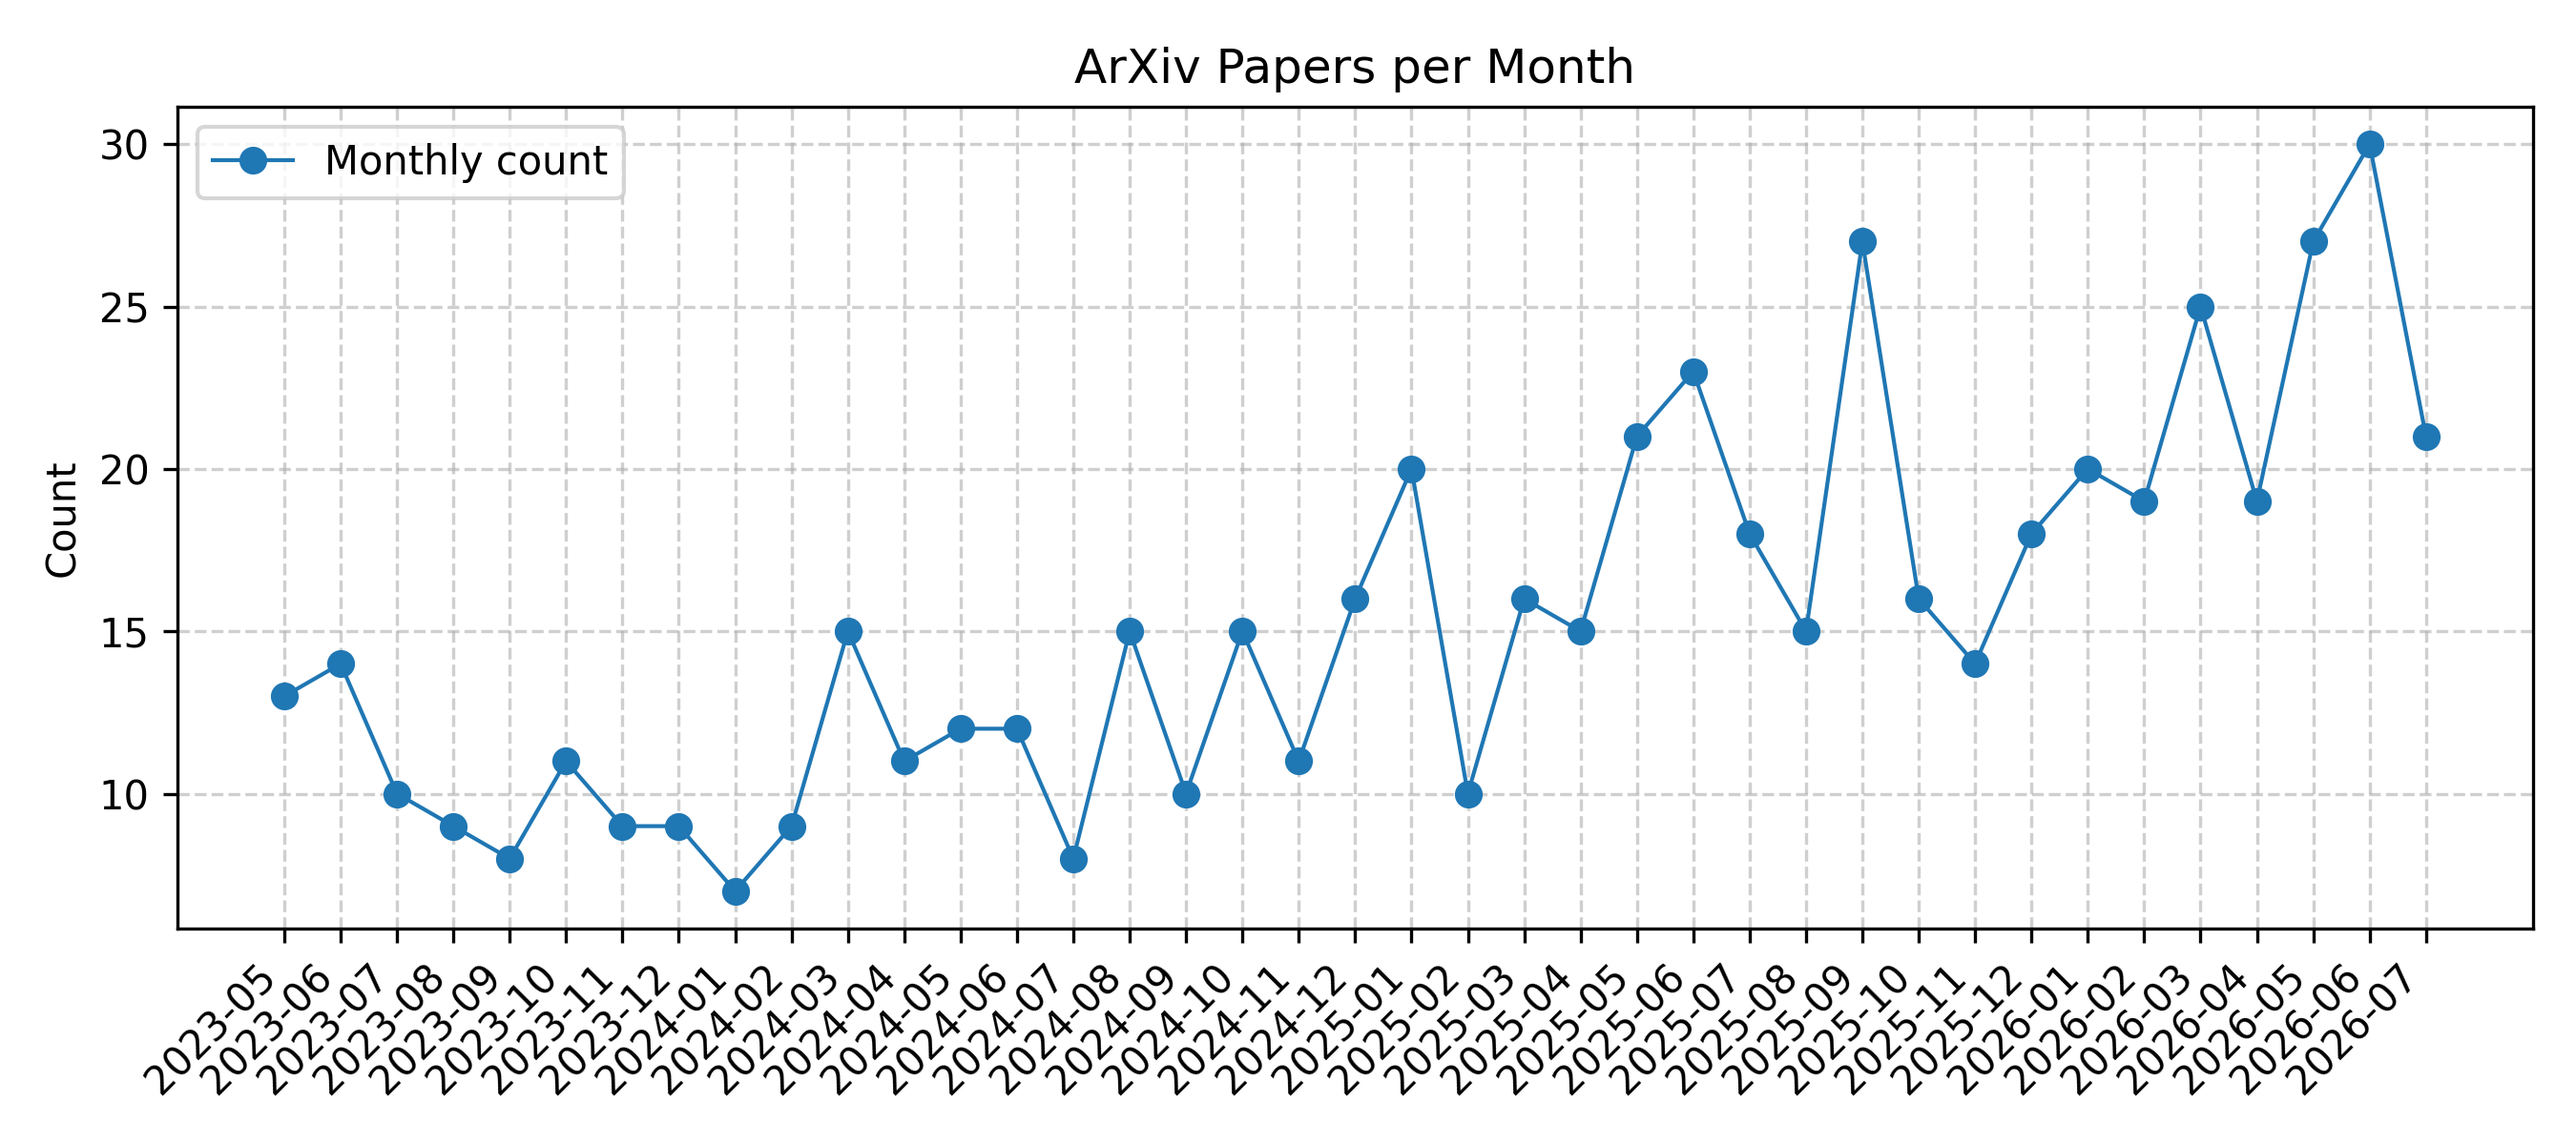
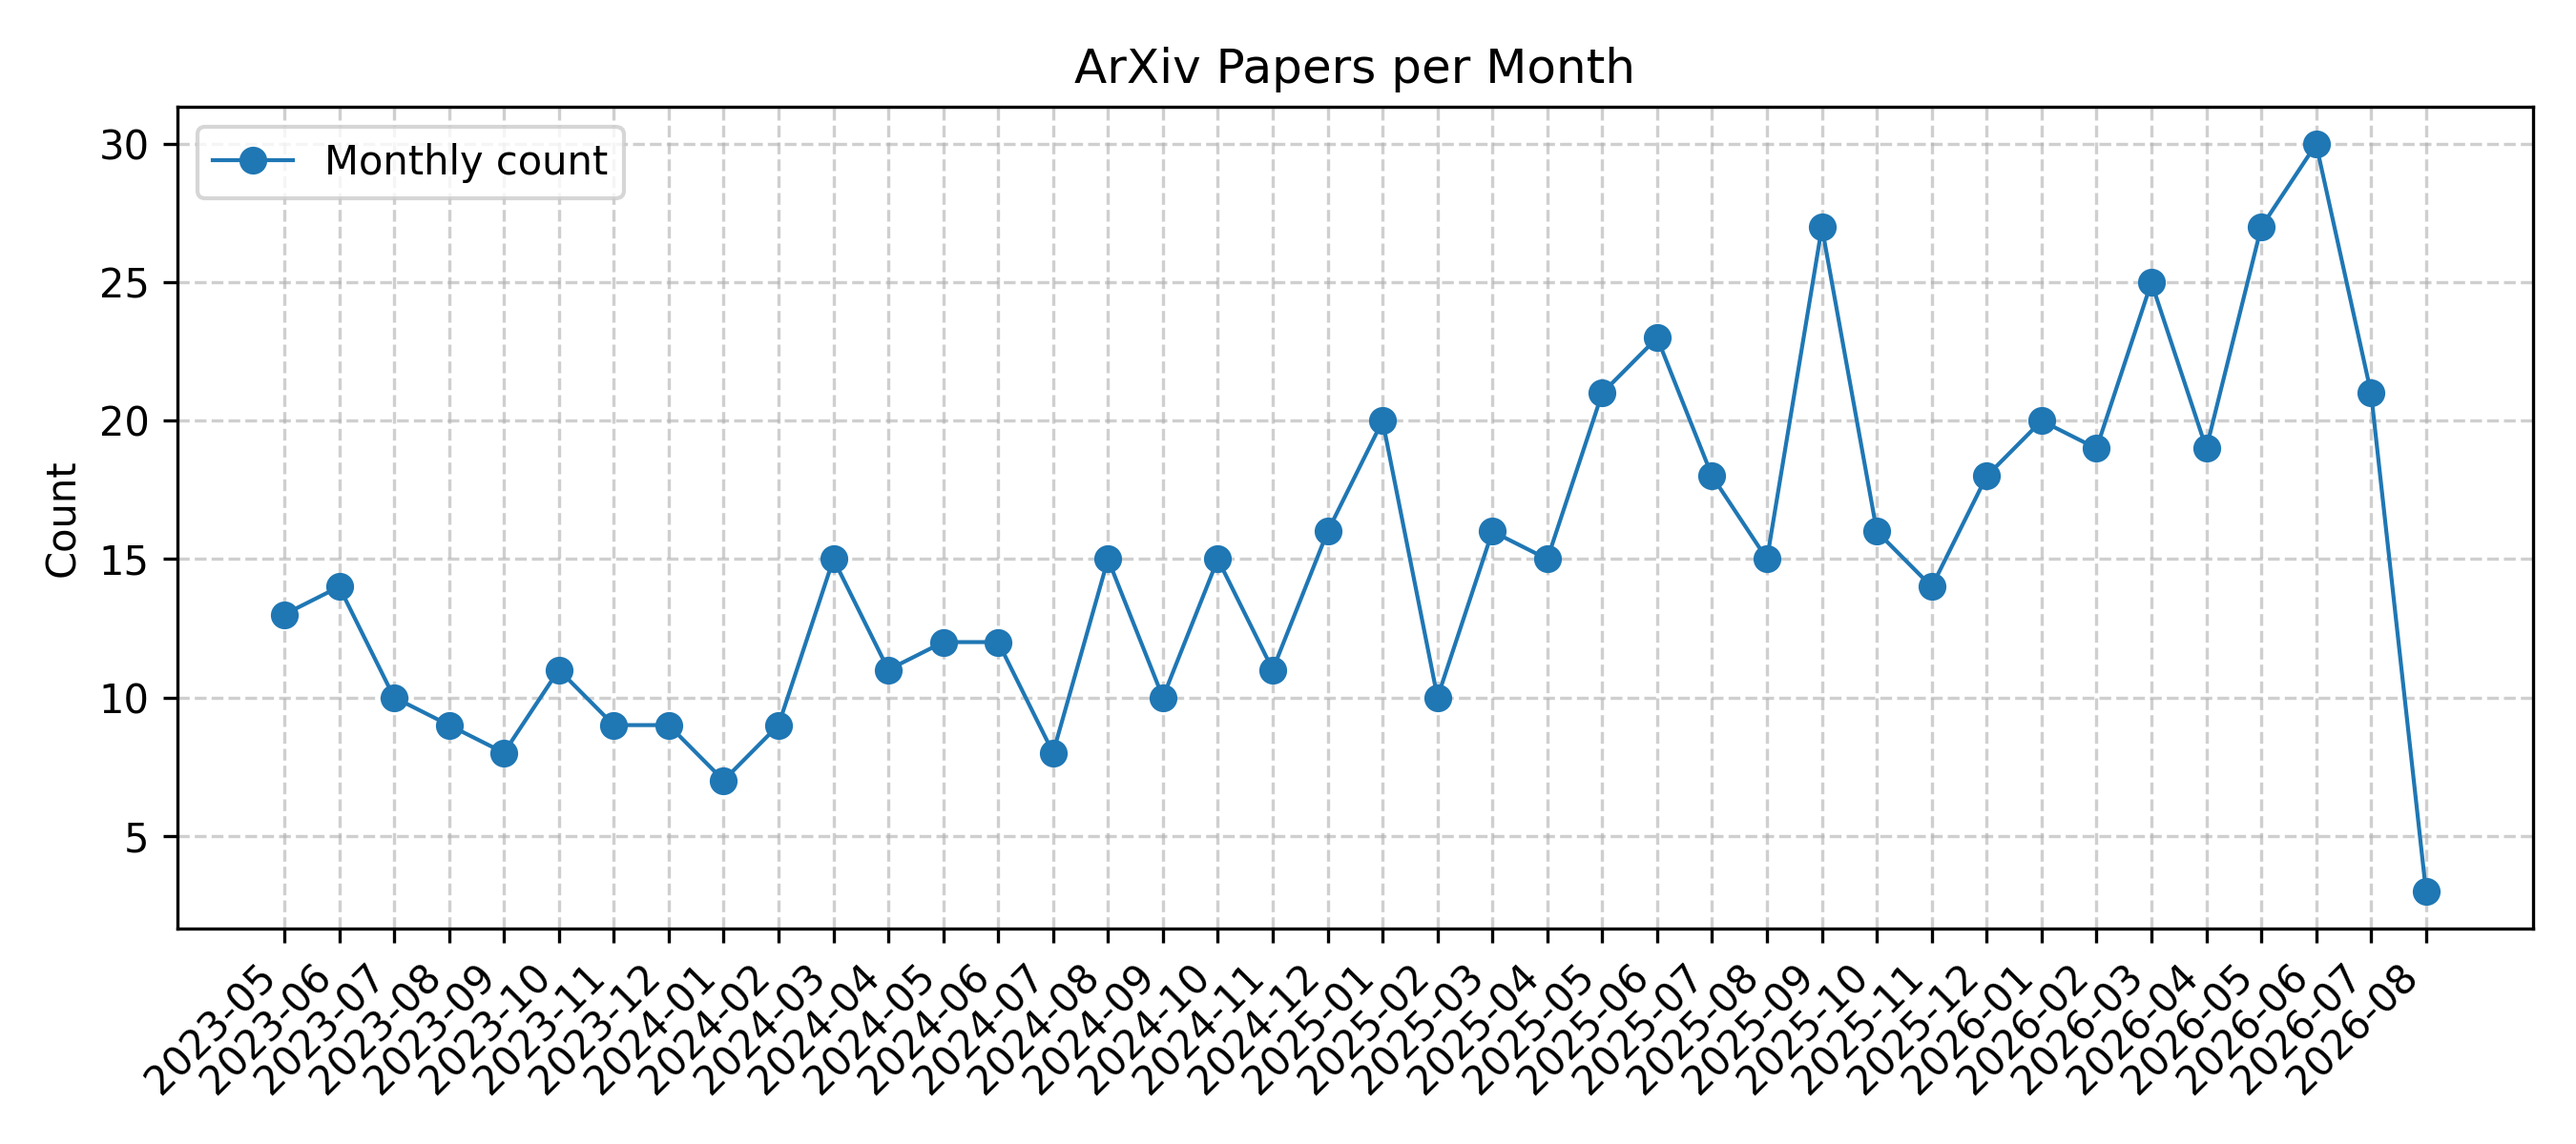
Github Action Automatic Update Diffusion NLP Arxiv Papers

diff --git a/README.md b/README.md
@@ -5,42 +5,27 @@
 
 This repository tracks the latest GraphRAG related papers from arXiv.
 
-## Updated on 2026.08.03
+## Updated on 2026.08.04
 
 ![Monthly Trend](imgs/trend.png)
 
-## Recent Month Summary (2026-07)
+## Recent Month Summary (2026-08)
 
-**21 paper(s)** submitted in 2026-07.
+**3 paper(s)** submitted in 2026-08.
 
 |Date|Title|PDF|Code|
 |---|---|---|---|
-|**2026-07-30**|**OptGraph: Large Language Models Enhanced Evolutionary Optimization Via Graph Retrieval-Augmented Generation**|[2607.27918v1](http://arxiv.org/abs/2607.27918v1)| **[code](https://github.com/xianchaoxiu/OptGraph)**|
-|**2026-07-29**|**Dual-Path LLM Reasoning for Multimodal Few-Shot Knowledge Graph Completion**|[2607.26909v1](http://arxiv.org/abs/2607.26909v1)| null|
-|**2026-07-26**|**HVM-GraphRAG: Holistic-View Multimodal Graph Retrieval-Augmented Generation on Complex Document**|[2607.24861v1](http://arxiv.org/abs/2607.24861v1)| null|
-|**2026-07-06**|**Multimodal Hybrid Retrieval-Augmented Generation for Scientific Document Understanding using Open-Source SLMs**|[2607.24799v1](http://arxiv.org/abs/2607.24799v1)| null|
-|**2026-07-27**|**A corrective agentic hybrid RAG and an operations-grounded evaluation for a scientific facility**|[2607.24663v1](http://arxiv.org/abs/2607.24663v1)| null|
-|**2026-07-21**|**SEGRA: Structured Experience-Guided Graph Reasoning Agent for Gremlin Based Question Answering**|[2607.22713v1](http://arxiv.org/abs/2607.22713v1)| null|
-|**2026-06-20**|**Evolving from Lessons: Skill-Augmented Table Graph Reasoning for Operation-wise Table Question Answering**|[2607.22633v1](http://arxiv.org/abs/2607.22633v1)| null|
-|**2026-07-24**|**MA-DAR: Manifold-Aligned Dynamic Adaptive Routing for Continual Temporal Knowledge Graph Reasoning**|[2607.21949v1](http://arxiv.org/abs/2607.21949v1)| null|
-|**2026-07-04**|**HyGRL: Adaptive Hybrid Graph Reasoning for Multi-Entity Questions**|[2607.19398v1](http://arxiv.org/abs/2607.19398v1)| **[code](https://github.com/wjywjy123/HyGRL)**|
-|**2026-06-05**|**GraphContainer: A Unified Platform for Comparing and Debugging Graph RAG Methods**|[2607.19362v1](http://arxiv.org/abs/2607.19362v1)| **[code](https://youtu.be/O02eNJLwkU0)**|
-|**2026-07-18**|**When Do Multimodal and Graph-Augmented RAG Help? A Controlled Evaluation for Document Question Answering**|[2607.16604v1](http://arxiv.org/abs/2607.16604v1)| **[code](https://github.com/sokistar24/multimodal-graph-rag)**|
-|**2026-05-09**|**ColGraphRAG: Late-Interaction Evidence Retrieval for Multimodal GraphRAG**|[2607.16208v1](http://arxiv.org/abs/2607.16208v1)| null|
-|**2026-07-17**|**MGDT: MLLM-Guided Diffusion Transformer with Relation-Adaptive Mixture-of-Experts for Multimodal Knowledge Graph Completion**|[2607.15592v1](http://arxiv.org/abs/2607.15592v1)| null|
-|**2026-07-16**|**Reachability-Aware Pretraining for Efficient Target-Oriented Path Exploration in Temporal Knowledge Graph Reasoning**|[2607.14886v1](http://arxiv.org/abs/2607.14886v1)| null|
-|**2026-07-13**|**RAGU: A Multi-Step GraphRAG Engine with a Compact Domain-Adapted LLM**|[2607.11683v1](http://arxiv.org/abs/2607.11683v1)| **[code](https://huggingface.co/bond005/meno-lite-0.1)**|
-|**2026-07-13**|**FAIR GraphRAG: A Retrieval-Augmented Generation Approach for Semantic Data Analysis**|[2607.11464v1](http://arxiv.org/abs/2607.11464v1)| null|
-|**2026-07-11**|**GAE: Graph-Augmented Evolution for Scientific Discovery via Reinforcement Optimization**|[2607.10127v1](http://arxiv.org/abs/2607.10127v1)| null|
-|**2026-07-09**|**GATS: Graph-Augmented Tree Search with Layered World Models for Efficient Agent Planning**|[2607.08894v1](http://arxiv.org/abs/2607.08894v1)| null|
-|**2026-07-04**|**GRASP: Graph-Reasoning Aided Survey Planning for High-Fidelity Related Work Generation**|[2607.03709v1](http://arxiv.org/abs/2607.03709v1)| null|
-|**2026-07-03**|**Conditional Diffusion Guided Knowledge Transfer for Multi-Domain Knowledge Graph Completion**|[2607.03154v1](http://arxiv.org/abs/2607.03154v1)| null|
-|**2026-06-30**|**AGE: Adaptive-masking for Graph Embedding in Graph Retrieval-Augmented Generation**|[2607.00052v1](http://arxiv.org/abs/2607.00052v1)| null|
+|**2026-08-03**|**X-KGRank: A Knowledge Graph RAG Framework for Explainable Recommendations via Pattern Mining and LLM Re-Ranking**|[2608.01732v1](http://arxiv.org/abs/2608.01732v1)| null|
+|**2026-08-03**|**DocNavRAG: Document-Structured Graph RAG with Stateful Evidence Construction for Complex Document Question Answering**|[2608.01565v1](http://arxiv.org/abs/2608.01565v1)| null|
+|**2026-08-02**|**ACE-GraphRAG: Agentic Context Engineering for Hierarchical GraphRAG**|[2608.01269v1](http://arxiv.org/abs/2608.01269v1)| null|
 
 ## graphrag
 
 |Date|Title|PDF|Code|
 |---|---|---|---|
+|**2026-08-03**|**X-KGRank: A Knowledge Graph RAG Framework for Explainable Recommendations via Pattern Mining and LLM Re-Ranking**|[2608.01732v1](http://arxiv.org/abs/2608.01732v1)| null|
+|**2026-08-03**|**DocNavRAG: Document-Structured Graph RAG with Stateful Evidence Construction for Complex Document Question Answering**|[2608.01565v1](http://arxiv.org/abs/2608.01565v1)| null|
+|**2026-08-02**|**ACE-GraphRAG: Agentic Context Engineering for Hierarchical GraphRAG**|[2608.01269v1](http://arxiv.org/abs/2608.01269v1)| null|
 |**2026-07-30**|**OptGraph: Large Language Models Enhanced Evolutionary Optimization Via Graph Retrieval-Augmented Generation**|[2607.27918v1](http://arxiv.org/abs/2607.27918v1)| **[code](https://github.com/xianchaoxiu/OptGraph)**|
 |**2026-07-29**|**Dual-Path LLM Reasoning for Multimodal Few-Shot Knowledge Graph Completion**|[2607.26909v1](http://arxiv.org/abs/2607.26909v1)| null|
 |**2026-07-26**|**HVM-GraphRAG: Holistic-View Multimodal Graph Retrieval-Augmented Generation on Complex Document**|[2607.24861v1](http://arxiv.org/abs/2607.24861v1)| null|
@@ -640,7 +625,7 @@ This repository tracks the latest GraphRAG related papers from arXiv.
 |**2024-03-04**|**Pre-trained Language Model with Prompts for Temporal Knowledge Graph Completion**|[2305.07912v2](http://arxiv.org/abs/2305.07912v2)| null|
 |**2023-09-20**|**ACTC: Active Threshold Calibration for Cold-Start Knowledge Graph Completion**|[2305.06395v3](http://arxiv.org/abs/2305.06395v3)| null|
 
-<p align=right>(<a href=#Updated-on-20260803>back to top</a>)</p>
+<p align=right>(<a href=#Updated-on-20260804>back to top</a>)</p>
 
 [contributors-shield]: https://img.shields.io/github/contributors/bansky-cl/graphrag-arxiv-daily-paper.svg?style=for-the-badge
 [contributors-url]: https://github.com/bansky-cl/graphrag-arxiv-daily-paper/graphs/contributors
